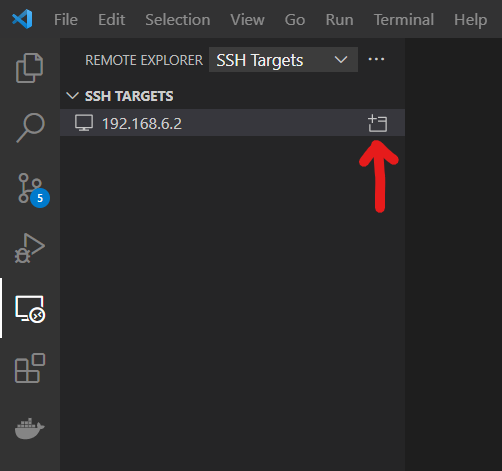
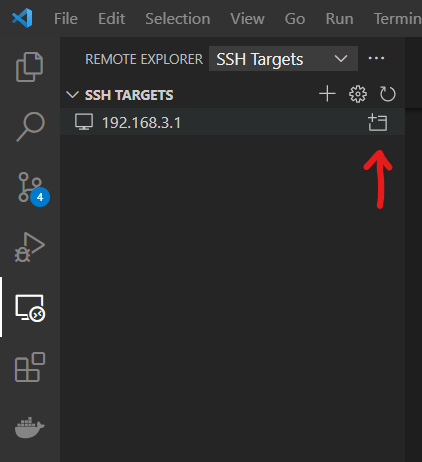
Add robot connection instructions

diff --git a/tutorials/robot.html b/tutorials/robot.html
@@ -34,61 +34,115 @@
                   </ul>
                 </header>
 
-              <!-- Content -->
+                <!-- Content -->
                 <section>
-                  <header class="main project">
-                    <strong>Tutorial:</strong> Using the MBot-Omni Robot Platform
+                  <div class="content">
+                    <header class="main project">
+                      <strong>Tutorial:</strong> Using the MBot-Omni Robot Platform
+                    </header>
+
+                    <p><span class="image right"><img src="../images/mbot.jpg" alt=""/></span>
+                      The <strong>MBot-Omni</strong> is an omnidrive robot platform which we will be programming in ROB 102. This tutorial contains instructions on how to use it and program it.</p>
+
+                    <p>This page has the following parts:</p>
+                    <ul>
+                      <li><a href="#sec_robot_care">Robot Usage &amp; Care</a></li>
+                      <li><a href="#sec_robot_prog">Programming the Robot</a></li>
+                    </ul>
+
+                </section>
+
+                <!-- ROBOT CARE -->
+                <section id="sec_robot_care">
+                  <header class="major">
+                    <h2><a href="#sec_robot_care">Robot Usage &amp; Care</a></h2>
                   </header>
+                  <div class="content">
+                    <h3 id="sec_robot_on">Turning the robot on</h3>
 
-                  <h2>Prerequisites</h2>
+                    <p>To turn the robot on, flick the switch on the power bank to ON. The red light on the Raspberry Pi should turn on. The lights on the Beaglebone should turn off and flash.</p>
 
-                  <p>This tutorial assumes you have followed the instructions for installing <a href="setup.html#install_git">Git</a> and <a href="setup.html#install_vscode">VSCode</a>.</p>
+                    <h3 id="sec_robot_off">Turning the robot off</h3>
 
-                  <h2>1. Add the Remote Development extension</h2>
+                    <p>To turn the robot off, flick the switch on the power bank to OFF. Then, press the power button, marked POW, on the Beaglebone. Wait for <em>all the lights to turn off</em>, on both boards.</p>
 
-                  <p>First, we need the VSCode Remote Development extension, which will allow us to connect VSCode to the robot's environment. Open VSCode and click on the &quot;Extensions&quot; icon <span><img src="https://raw.githubusercontent.com/microsoft/vscode-icons/master/icons/light/extensions.svg?sanitize=true"></span> in the toolbar on the left. Search for &quot;Remote Development&quot; and select the extension called &quot;Remote Development.&quot; Click &quot;Install&quot; to install it.</p>
+                    <h3 id="sec_robot_net">Robot Wifi network</h3>
 
-                  <span class="image main"><img src="../images/tutorials/robot/install-remote-ext.jpg" alt="" style="max-width:800px;"/></span>
+                    <p>Each robot should be marked with a unique, four digit ID (0001, 0002, etc.). When turned on, the robot will have two access points: <strong>OMNI-RPI-XXXX</strong> and <strong>OMNI-BBB-XXXX</strong> (replace <strong>XXXX</strong> with the ID of the robot). The password for both networks is <strong>iloverobots</strong>. We will primarily be using the RPI network.</p>
 
-                  <h2>2. Add the Beaglebone as a remote host</h2>
+                    <h3 id="sec_robot_batt">Robot battery care</h3>
 
-                  <p>Now we will tell VSCode how to connect to the Beaglebone board on the robot. First, power on the robot and connect to the Wifi network <b>OMNI-BBB-XXXX</b>, replacing &quot;XXXX&quot; with the ID of your robot. The ID should be written on a label on the robot. The password for the network is <b>iloverobots</b>. It might take a few seconds for the network to appear. The Beaglebone is on if the green and red battery indicator is lit up and if the blue LEDs by the power button are flashing.</p>
+                    <ul>
+                      <li><strong>Charging the batteries:</strong> Plug the battery into the power supply. Switch the battery to ON to charge it. The power adapter will have a red light while it's charging, and it will turn green when done. Switch the battery to OFF to store.</li>
+                      <li>Batteries are shared across all robots. There are bins labelled &quot;CHARGED BATTERIES&quot; and &quot;UNCHARGED BATTERIES.&quot; Batteries should be placed in the appropriate bin.</li>
+                      <li>Always plug in uncharged batteries right away. They take a long time to charge.</li>
+                      <li>When a battery has three of five green lights on, it should be replaced.</li>
+                      <li><em>Tip:</em> When you aren't using the Lidar, unplug the Micro USB cord from its board to disconnect it from the Raspberry Pi. When it spins, it draws a lot of power and drains the battery quickly.</li>
+                    </ul>
+                  </div>
+                </section>
 
-                  <p>To add the Beaglebone as a remote host in VSCode, click on the &quot;Remote Explorer&quot; in the toolbar on the left. Then, select the + to add a new host:</p>
+                <!-- PROGRAMMING ROBOT -->
+                <section id="sec_robot_prog">
+                  <header class="major">
+                    <h2><a href="#sec_robot_prog">Programming the Robot</a></h2>
+                  </header>
+                  <div class="content">
+                    <p>We will program the robot using VSCode's Remote Development extension. The extension allows us to connect to a remote host in a VSCode window and write code on its filesystem.</p>
 
-                  <span class="image main"><img src="../images/tutorials/robot/remote-add-target.png" alt="" style="max-width:400px;"/></span>
+                    <h3>Prerequisites</h3>
 
-                  <p>In the box that appears, type in <code>ssh</code> followed by the robot's address, exactly as below (all robots have the same address and username):</p>
-                  <pre><code class="language-bash">ssh debian@192.168.6.2</code></pre>
+                    <p>This tutorial assumes you have followed the instructions for installing <a href="setup.html#install_git">Git</a> and <a href="setup.html#install_vscode">VSCode</a>.</p>
 
-                  <span class="image main"><img src="../images/tutorials/robot/remote-ssh-command.png" alt="" style="max-width:600px;"/></span>
+                    <h3>1. Add the Remote Development extension</h3>
 
-                  <p>Press Enter, then select the default configuration file when the option appears:</p>
+                    <p>First, we need the VSCode Remote Development extension, which will allow us to connect VSCode to the robot's environment. Open VSCode and click on the &quot;Extensions&quot; icon <span><img src="https://raw.githubusercontent.com/microsoft/vscode-icons/master/icons/light/extensions.svg?sanitize=true"></span> in the toolbar on the left. Search for &quot;Remote Development&quot; and select the extension called &quot;Remote Development.&quot; Click &quot;Install&quot; to install it.</p>
 
-                  <span class="image main"><img src="../images/tutorials/robot/remote-ssh-config.png" alt="" style="max-width:600px;"/></span>
+                    <span class="image main"><img src="../images/tutorials/robot/install-remote-ext.jpg" alt="" style="max-width:800px;"/></span>
 
-                  <h2>3. Connect to the Beaglebone</h2>
+                    <h3>2. Add the Raspberry Pi as a remote host</h3>
 
-                  <p>To connect to the Beaglebone, open the &quot;Remote Explorer&quot; tab again, and select the new remote host you just added. Click on the icon to the right of the address to connect to the host in a new window.</p>
+                    <p>Now we will tell VSCode how to connect to the Raspberry Pi board on the robot. First, power on the robot and connect to the Wifi network <b>OMNI-RPI-XXXX</b>, replacing &quot;XXXX&quot; with the ID of your robot. The ID should be written on a label on the robot. The password for the network is <b>iloverobots</b>. It might take a few seconds for the network to appear. The robot is on if the green and red battery indicator is lit up on the Beaglebone board and if the blue LEDs by the power button are flashing, and the red light is lit up on the Raspberry Pi.</p>
 
-                  <span class="image main"><img src="../images/tutorials/robot/remote-connect-host.png" alt="" style="max-width:400px;"/></span>
+                    <p>To add the Raspberry Pi as a remote host in VSCode, click on the &quot;Remote Explorer&quot; in the toolbar on the left. Then, select the + to add a new host:</p>
 
-                  <p>If you are already in a new VSCode window with no other files open, you can also right-click on the host address to connect in the current window. You will be asked to select a platform. Select &quot;Linux&quot;.</p>
+                    <span class="image main"><img src="../images/tutorials/robot/remote-add-target.png" alt="" style="max-width:400px;"/></span>
 
-                  <span class="image main"><img src="../images/tutorials/robot/remote-platform-linux.png" alt="" style="max-width:600px;"/></span>
+                    <p>In the box that appears, type in <code>ssh</code> followed by the robot's address, exactly as below (all robots have the same address and username):</p>
+                    <pre><code class="language-bash">ssh pi@192.168.3.1</code></pre>
 
-                  <p>You will be asked for the password to the Beaglebone. <em>This is different from the wifi password.</em> The password is <b>i&lt;3robots!</b>. The first time you connect, it will take a few minutes for VSCode to do some setup on the Beaglebone. You should see the address of the Beaglebone on the bottom left of the VSCode window.</p>
+                    <span class="image main"><img src="../images/tutorials/robot/remote-ssh-command.png" alt="" style="max-width:600px;"/></span>
 
-                  <h2>4. Testing the motors</h2>
+                    <p>Press Enter, then select the default configuration file when the option appears:</p>
 
-                  <p>Let's make sure everything is working correctly! In the VSCode window which is connected to the robot, open a terminal by clicking on &quot;Terminal&quot; &gt; &quot;New Terminal.&quot; A terminal will open in the Beaglebone.</p>
+                    <span class="image main"><img src="../images/tutorials/robot/remote-ssh-config.png" alt="" style="max-width:600px;"/></span>
 
-                  <span class="image main"><img src="../images/tutorials/robot/remote-connect-vsc.png" alt="" style="max-width:800px;"/></span>
+                    <h3>3. Connect to the Raspberry Pi</h3>
 
-                  <p>Now, we can send commands to the motors (tip: set the robot on a box or hold it in your hands so the wheels aren't touching the ground, or it will drive away!). In the terminal, type:</p>
-                  <pre><code class="language-bash">rc_test_motors -m 1 -d 0.5</code></pre>
-                  <p>This sends a <em>duty</em> of 0.5 to motor 1. Press Ctrl+C to stop the motor. You can try sending any duty, from -1 to 1, to the motor. You can also try controlling motors 2 and 3 instead.</p>
+                    <p>To connect to the Raspberry Pi, open the &quot;Remote Explorer&quot; tab again, and select the new remote host you just added. Click on the icon to the right of the address to connect to the host in a new window.</p>
 
+                    <span class="image main"><img src="../images/tutorials/robot/remote-connect-host.png" alt="" style="max-width:400px;"/></span>
+
+                    <p>If you are already in a new VSCode window with no other files open, you can also right-click on the host address to connect in the current window. You will be asked to select a platform. Select &quot;Linux&quot;.</p>
+
+                    <span class="image main"><img src="../images/tutorials/robot/remote-platform-linux.png" alt="" style="max-width:600px;"/></span>
+
+                    <p>You will be asked for the password to the Raspberry Pi. <em>This is different from the wifi password.</em> The password is <b>i&lt;3robots!</b>. The first time you connect, it will take a few minutes for VSCode to do some setup on the Raspberry Pi. You should see the address of the Raspberry Pi on the bottom left of the VSCode window.</p>
+
+                    <span class="image main"><img src="../images/tutorials/robot/remote-connected.png" alt="" style="max-width:300px;"/></span>
+
+                    <h3>4. Opening a terminal</h3>
+
+                    <p>In the VSCode window which is connected to the robot, open a terminal by clicking on &quot;Terminal&quot; &gt; &quot;New Terminal.&quot; A terminal will open on the Raspberry Pi. You can type command line commands in this terminal just like we have done on your computer or in a Docker container.</p>
+
+                    <span class="image main"><img src="../images/tutorials/robot/remote-connect-vsc.png" alt="" style="max-width:800px;"/></span>
+
+                    <h3>5. Opening a folder for editing in VSCode</h3>
+
+                    <p>You can open a folder on the robot for editing in VSCode, like you do for folders on your own computer. To do this, in the VSCode remote window, go to the explorer, or do &quot;File&quot; &gt; &quot;Open Folder...&quot;. In the command pallette that opens, type the path to the folder to open <em>on the Raspberry Pi</em> (for example, <code>/home/pi/my-code-folder</code>).</p>
+
+                    <p>When using the robot, you will first clone your Git repository for the appropriate project onto the Raspberry Pi. This will then be the folder you open in VSCode. When you first get your robot, there won't be any project code on it yet.</p>
+                  </div>
                 </section>
 
             </div>

diff --git a/assets/css/main.css b/assets/css/main.css
@@ -82,6 +82,10 @@ html {
 *, *:before, *:after {
   box-sizing: inherit; }
 
+section > .content {
+  display: inline-block;
+}
+
 body {
   background: #ffffff; }
   body.is-preload *, body.is-preload *:before, body.is-preload *:after, body.is-resizing *, body.is-resizing *:before, body.is-resizing *:after {
